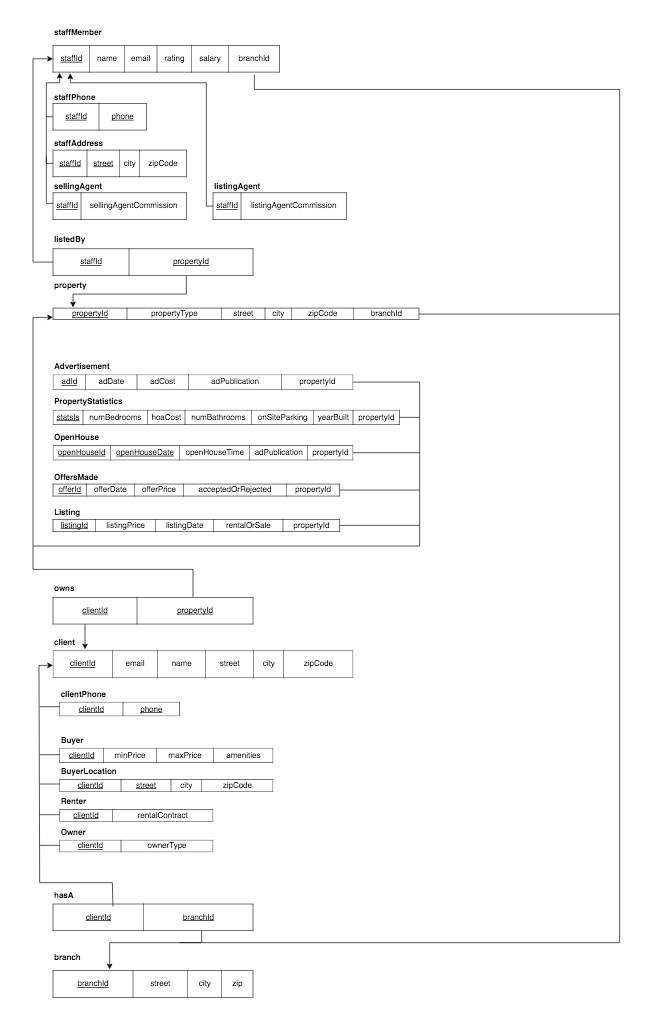
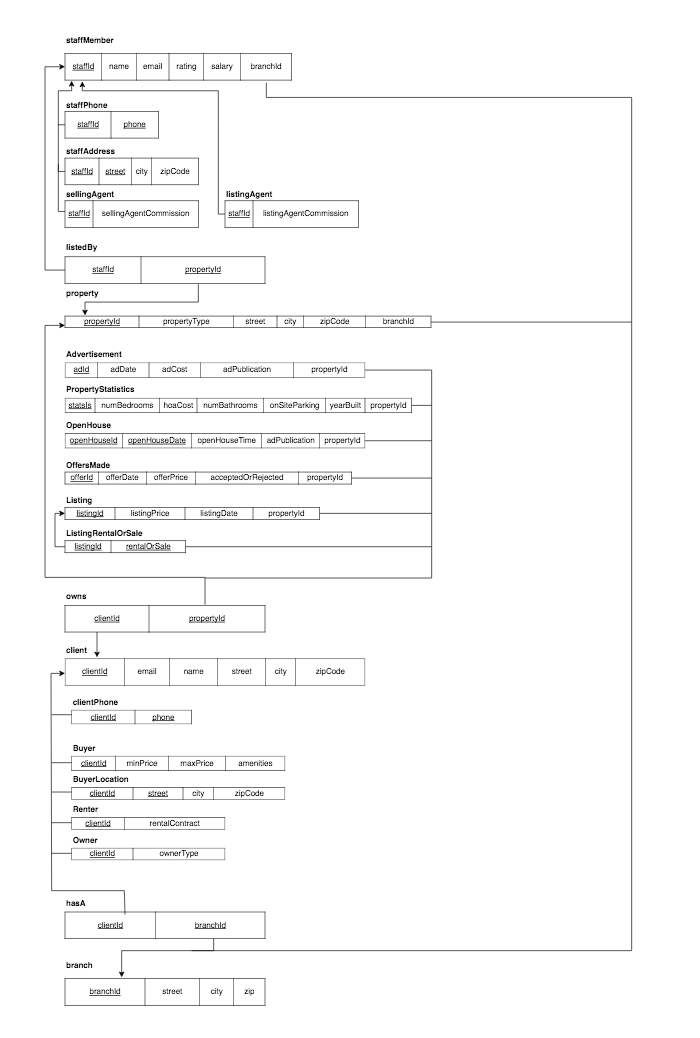
broke listingRentalOrSale into its own table

Changed region(s): [[0.0299, 0.0311, 0.9281, 0.9961], [0.3892, 0.6226, 0.5389, 0.6848]]

diff --git a/website/index.html b/website/index.html
@@ -424,6 +424,7 @@
         <p>openHouse(<strong>openHouseId</strong>, <strong>openHouseDate</strong>, openHouseTime, adPublication, <em>propertyId</em>)</p>
         <p>offersMade(<strong>offerId</strong>, offerDate, offerPrice, acceptedOrRejected, <em>propertyId</em>)</p>
         <p>listing(<strong>listingId</strong>, listingPrice, listingDate, rentalOrSale, <em>propertyId</em>)</p>
+        <p>listingRentalOrSale(<strong><em>listingId</em></strong>, rentalOrSale)</p>
         <p>owns(<strong><em>clientId</em></strong>, <strong><em>PropertyId</em></strong>)</p>
         <p>client(<strong>clientId</strong>, email, name, street, city, zipCode)</p>
         <p>clientPhone(<strong><em>clientId</em></strong>, <strong>phone</strong>)</p>
@@ -532,8 +533,13 @@
           <tr><td>String listingId</td><td>first characters is 'l' (for listing), rest of characters are numbers (ten characters)</td></tr>
           <tr><td>Double listingPrice</td><td>listing price as a monetary value (dollars.cents)</td></tr>
           <tr><td>Date listingDate</td><td>ISO Date (YYYY-MM-DD)</td></tr>
-          <tr><td>Char rentalOrSale</td><td>'r' for rental; 's' for sale;</td></tr>
           <tr><td>String propertyId</td><td>foreign key to propertyId</td></tr>
+        </table>
+
+        <table class="table table-responsive table-hover table-striped">
+          <h4>listingRentalOrSale Types:</h4>
+          <tr><td>String listingId</td><td>first characters is 'l' (for listing), rest of characters are numbers (ten characters)</td></tr>
+          <tr><td>Char rentalOrSale</td><td>'r' for rental; 's' for sale;</td></tr>
         </table>
 
         <table class="table table-responsive table-hover table-striped">
